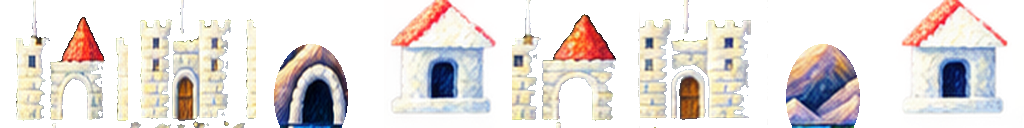
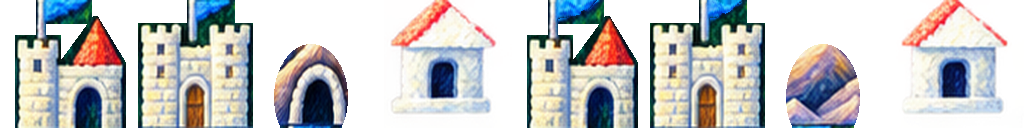
Fix Van Gogh building crops and restrict animation to flags

diff --git a/web/tests/expandedArt.test.ts b/web/tests/expandedArt.test.ts
@@ -1,10 +1,91 @@
 import { describe, expect, it } from 'vitest';
 import { createHash } from 'node:crypto';
 import { readFileSync } from 'node:fs';
+import { inflateSync } from 'node:zlib';
 import { TILE_SETS } from '../src/ui/help.ts';
 import { VEGETATION_LAYOUTS } from '../src/ui/vegetationLayouts.ts';
 
+/** Decode the shipped RGBA PNGs so animation invariants check actual pixels. */
+function rgba(file: string) {
+  const png = readFileSync(new URL(`../public/graphics/Van Gogh-${file}.png`, import.meta.url));
+  const width = png.readUInt32BE(16),
+    height = png.readUInt32BE(20),
+    chunks: Buffer[] = [];
+  expect([png[24], png[25]]).toEqual([8, 6]);
+  for (let offset = 8; offset < png.length; ) {
+    const length = png.readUInt32BE(offset);
+    if (png.toString('ascii', offset + 4, offset + 8) === 'IDAT') chunks.push(png.subarray(offset + 8, offset + 8 + length));
+    offset += length + 12;
+  }
+  const compressed = inflateSync(Buffer.concat(chunks)),
+    stride = width * 4,
+    pixels = Buffer.alloc(stride * height);
+  const paeth = (a: number, b: number, c: number) => {
+    const p = a + b - c,
+      da = Math.abs(p - a),
+      db = Math.abs(p - b),
+      dc = Math.abs(p - c);
+    return da <= db && da <= dc ? a : db <= dc ? b : c;
+  };
+  for (let y = 0; y < height; y++) {
+    const filter = compressed[y * (stride + 1)];
+    for (let x = 0; x < stride; x++) {
+      const i = y * stride + x,
+        a = x >= 4 ? pixels[i - 4] : 0,
+        b = y ? pixels[i - stride] : 0,
+        c = y && x >= 4 ? pixels[i - stride - 4] : 0;
+      const prediction = [0, a, b, Math.floor((a + b) / 2), paeth(a, b, c)][filter];
+      pixels[i] = (compressed[y * (stride + 1) + x + 1] + prediction) & 255;
+    }
+  }
+  return (x: number, y: number) => pixels.subarray((y * width + x) * 4, (y * width + x) * 4 + 4);
+}
+
 describe('opt-in Van Gogh art package', () => {
+  it('animates only flag cloth and retains blue doors, stone edges and the painted ground', () => {
+    const atlas = rgba('Tiles'),
+      cards = rgba('BuildingCards'),
+      grounds = rgba('BuildingGrounds');
+    for (const { index, slot, flag } of [
+      { index: 6, slot: 0, flag: [45, 0, 92, 24] },
+      { index: 7, slot: 1, flag: [66, 0, 107, 25] },
+    ]) {
+      let changed = 0,
+        background = 0;
+      for (let y = 0; y < 128; y++)
+        for (let x = 0; x < 128; x++) {
+          const a = atlas(x, index * 128 + y),
+            b = atlas(x + 128, index * 128 + y);
+          const inside = x >= flag[0] && x < flag[2] && y >= flag[1] && y < flag[3];
+          if (!a.equals(b)) {
+            expect(inside).toBe(true);
+            changed++;
+          }
+          expect(grounds(slot * 128 + x, y)).toEqual(grounds((slot + 4) * 128 + x, y));
+          for (const frame of [0, 1]) {
+            const original = atlas(x + frame * 128, index * 128 + y),
+              card = cards((slot + frame * 4) * 128 + x, y);
+            if (card[3] === 255) expect(card).toEqual(original);
+            else {
+              expect(grounds((slot + frame * 4) * 128 + x, y)).toEqual(original);
+              background++;
+            }
+          }
+        }
+      expect(changed).toBeGreaterThan(100);
+      expect(background).toBeGreaterThan(1000);
+    }
+    // Cool-coloured interiors and pale outer walls must never become holes.
+    for (const [slot, x, y] of [
+      [0, 38, 65],
+      [0, 90, 105],
+      [0, 18, 85],
+      [1, 23, 47],
+      [1, 85, 47],
+      [1, 12, 80],
+    ])
+      expect(cards(slot * 128 + x, y)[3]).toBe(255);
+  });
   it('ships a canonical atlas, paired building cutouts and independently anchored plants', () => {
     expect(TILE_SETS[0]).toBe('Standard');
     expect(TILE_SETS).toContain('Van Gogh');
@@ -14,6 +95,7 @@ describe('opt-in Van Gogh art package', () => {
     const dimensions: Record<string, number[]> = {
       Tiles: [1536, 2048],
       BuildingCards: [1024, 128],
+      BuildingGrounds: [1024, 128],
       VegetationCards: [1024, 128],
       ForestCard: [128, 128],
       TreeCards: [384, 128],
@@ -25,7 +107,7 @@ describe('opt-in Van Gogh art package', () => {
       const suffix = name.replace('Van Gogh-', '').replace('.png', '');
       expect([bytes.readUInt32BE(16), bytes.readUInt32BE(20)]).toEqual(dimensions[suffix]);
     }
-    expect(Object.keys(manifest.files)).toHaveLength(6);
+    expect(Object.keys(manifest.files)).toHaveLength(7);
     expect(VEGETATION_LAYOUTS['Van Gogh']).toEqual(VEGETATION_LAYOUTS.Standard);
   });
 

diff --git a/web/src/ui/screen.ts b/web/src/ui/screen.ts
@@ -38,7 +38,7 @@ import type { ScreenRect } from './tileMapScene.ts';
 import { buildLandscape } from '../game/landscape.ts';
 import { Shape } from '../game/tiles.ts';
 import { applyPresentationPreset, presentationPreset, DEFAULT_3D_SETTINGS, type View3DSettings } from './view3DSettings.ts';
-import { buildingGround, isBuilding } from './billboardArt.ts';
+import { drawBuildingGround, isBuilding } from './billboardArt.ts';
 import { World, holdCombatMark, STARVATION_MODES, TIMER_MODES } from '../game/world.ts';
 import { PlayerRecord, levelUpDue, statusLetter } from '../game/player.ts';
 import { commandMenu, hasMagic } from '../game/context.ts';
@@ -2385,14 +2385,10 @@ export class Screen implements GameIO {
       const dx = cell + (i % VIEW_SIZE) * tile;
       const dy = cell + Math.floor(i / VIEW_SIZE) * tile;
       gfx.drawShape(ctx, c.base, dx, dy, tile);
-      if (c.base !== Shape.Void)
-        gfx.drawShape(
-          map.terrainContext,
-          this.view3D.buildings && isBuilding(c.base) ? buildingGround(c.base) : map.forestGround(c.base, gfx),
-          dx,
-          dy,
-          tile,
-        );
+      if (c.base !== Shape.Void) {
+        if (this.view3D.buildings && isBuilding(c.base)) drawBuildingGround(map.terrainContext, gfx, c.base, dx, dy, tile);
+        else gfx.drawShape(map.terrainContext, map.forestGround(c.base, gfx), dx, dy, tile);
+      }
       this.drawViewportActors(ctx, c, dx, dy, tile);
       this.drawViewportActors(map.actorContext, c, dx, dy, tile, map.effectContext);
     }

diff --git a/web/tools/preview-presentations.html b/web/tools/preview-presentations.html
@@ -33,6 +33,7 @@
       import { TileMapScene } from '/src/ui/tileMapScene.ts';
       import { DEFAULT_3D_SETTINGS } from '/src/ui/view3DSettings.ts';
       import { Shape } from '/src/game/tiles.ts';
+      import { drawBuildingGround, isBuilding } from '/src/ui/billboardArt.ts';
       const canvas = document.querySelector('canvas');
       const renderer = new T.WebGLRenderer({ canvas, antialias: true, preserveDrawingBuffer: true });
       renderer.setSize(900, 900);
@@ -73,17 +74,15 @@
         cells.forEach((c, i) => {
           const x = 32 + (i % 11) * 64,
             y = 32 + Math.floor(i / 11) * 64;
-          gfx.drawShape(
-            map.terrainContext,
-            c.base === Shape.Forest || c.base === Shape.Brush
-              ? map.forestGround(c.base, gfx)
-              : [Shape.Town, Shape.Castle, Shape.Shrine].includes(c.base)
-                ? Shape.Grass
-                : c.base,
-            x,
-            y,
-            64,
-          );
+          if (isBuilding(c.base)) drawBuildingGround(map.terrainContext, gfx, c.base, x, y, 64);
+          else
+            gfx.drawShape(
+              map.terrainContext,
+              c.base === Shape.Forest || c.base === Shape.Brush ? map.forestGround(c.base, gfx) : c.base,
+              x,
+              y,
+              64,
+            );
         });
         const actors = [
           { id: 'fighter', shape: 136, x: step * 0.25 - 0.25, y: -0.25, worldX: 9 + step, worldY: 9, size: 0.65, ground: Shape.Grass },

diff --git a/web/src/ui/tileMapScene.ts b/web/src/ui/tileMapScene.ts
@@ -19,7 +19,7 @@ import { Shape } from '../game/tiles.ts';
 import type { ViewCell } from '../game/viewport.ts';
 import { battlefieldZoom, mapCameraTarget, minimumMapZoom } from './mapCameraBounds.ts';
 import { DEFAULT_3D_SETTINGS, useTreeCards, type View3DSettings } from './view3DSettings.ts';
-import { buildingGround, isBuilding } from './billboardArt.ts';
+import { drawBuildingGround, isBuilding } from './billboardArt.ts';
 import { BuildingBillboards, buildingSlide } from './buildingBillboards.ts';
 import { TerrainCubes } from './terrainCubes.ts';
 import { Shoreline } from './shoreline.ts';
@@ -350,7 +350,7 @@ export class TileMapScene {
       const x = (shape % 16) * 64;
       const y = Math.floor(shape / 16) * 64;
       if (this.forestGround(shape, gfx) !== shape) gfx.drawShape(ctx, Shape.Grass, x, y, 64);
-      else if (this.options.buildings && isBuilding(shape)) gfx.drawShape(ctx, buildingGround(shape), x, y, 64);
+      else if (this.options.buildings && isBuilding(shape)) drawBuildingGround(ctx, gfx, shape, x, y, 64);
       else if (shape === Shape.Shrine || shape === Shape.Door) {
         gfx.drawShape(ctx, shape === Shape.Door ? Shape.Floor : Shape.Grass, x, y, 64);
         gfx.drawShape(ctx, shape, x, y, 64, { masked: true });

diff --git a/web/src/ui/billboardArt.ts b/web/src/ui/billboardArt.ts
@@ -9,6 +9,24 @@ export function buildingGround(shape: number): number {
   return shape === Shape.Dungeon ? Shape.Mountains : Shape.Grass;
 }
 
+/** Keep an expanded set's painted surroundings in world space below its card. */
+export function drawBuildingGround(
+  ctx: CanvasRenderingContext2D,
+  gfx: GraphicsSet,
+  shape: number,
+  x: number,
+  y: number,
+  size: number,
+): void {
+  const slot = ([Shape.Town, Shape.Castle, Shape.Dungeon, Shape.Shrine] as number[]).indexOf(shape);
+  if (gfx.buildingGrounds && slot >= 0) {
+    const sourceSize = gfx.buildingGrounds.height;
+    const rect = gfx.tileRect(shape >> 1);
+    const frame = Math.floor(rect.x / rect.w) % 2;
+    ctx.drawImage(gfx.buildingGrounds, (slot + frame * 4) * sourceSize, 0, sourceSize, sourceSize, x, y, size, size);
+  } else gfx.drawShape(ctx, buildingGround(shape), x, y, size);
+}
+
 /** Remove only background connected to an image edge, keeping enclosed details intact. */
 export function cutoutBackground(pixels: Uint8ClampedArray, ground: Uint8ClampedArray, width: number, height: number): void {
   const rgba = (i: number): string => `${pixels[i * 4]},${pixels[i * 4 + 1]},${pixels[i * 4 + 2]}`;

diff --git a/web/src/ui/graphics.ts b/web/src/ui/graphics.ts
@@ -220,6 +220,8 @@ export class GraphicsSet {
     readonly vegetation: { image: HTMLImageElement; layout: VegetationLayout } | null = null,
     /** Optional expanded-art building cutouts: four subjects, then four alternate frames. */
     readonly buildingCards: HTMLImageElement | null = null,
+    /** Expanded-art surroundings preserved beneath the standing building. */
+    readonly buildingGrounds: HTMLImageElement | null = null,
   ) {
     this.tileSize = tiles.width / TILE_COLUMNS;
     this.opaqueTiles = document.createElement('canvas');
@@ -298,6 +300,7 @@ export class GraphicsSet {
       grassCards && GRASS_LAYOUTS[name] ? { image: grassCards, patches: GRASS_LAYOUTS[name] } : null,
       vegetationCards && VEGETATION_LAYOUTS[name] ? { image: vegetationCards, layout: VEGETATION_LAYOUTS[name] } : null,
       await tryLoad('BuildingCards', ['png'], false),
+      await tryLoad('BuildingGrounds', ['png'], false),
     );
   }
 

diff --git a/web/tools/prepare-van-gogh.py b/web/tools/prepare-van-gogh.py
@@ -7,6 +7,7 @@ alongside their prompts so this packing step is repeatable without a provider.
 from pathlib import Path
 import hashlib
 import json
+import math
 from PIL import Image, ImageDraw
 
 ROOT = Path(__file__).resolve().parents[1]
@@ -115,31 +116,74 @@ forest.save(OUT / 'Van Gogh-ForestCard.png')
 for index, plants in [(2,bushes),(3,forest)]:
     for frame in range(2):
         tile=get(1,frame); tile.alpha_composite(plants); put(index,frame,tile)
+
+# These generated rows have their own seams, unlike the rest of the draft.
+# Use ONE complete painting per subject. Only the flag cloth may animate.
+building_specs = {
+    6: {'crop': (0,477,88,550), 'flag': (45,0,92,24),
+        'outline': [(15,35),(36,35),(36,0),(45,0),(45,35),(60,35),(60,61),(93,16),(97,16),(125,62),(125,127),(15,127)]},
+    7: {'crop': (0,552,88,628), 'flag': (66,0,107,25),
+        'outline': [(10,23),(59,23),(59,0),(68,0),(68,23),(124,23),(124,127),(10,127)]},
+}
+building_masks = {}
+for index,spec in building_specs.items():
+    base=draft.crop(spec['crop']).resize((N,N),Image.Resampling.LANCZOS)
+    base.putalpha(255)
+    alternate=base.copy()
+    x0,y0,x1,y1=spec['flag']
+    def blue(pixel):
+        r,g,b,a=pixel
+        return b>100 and b>g*1.08 and b>r*1.4
+    # Move existing paint strokes within the blue cloth. Architecture, pole,
+    # silhouette and backdrop remain byte-identical; no second castle painting.
+    for y in range(y0,y1):
+        for x in range(x0,x1):
+            sy=max(y0,min(y1-1,y+round(3*math.sin((x-x0)*0.18+0.9))))
+            if blue(base.getpixel((x,y))) and blue(base.getpixel((x,sy))):
+                alternate.putpixel((x,y),base.getpixel((x,sy)))
+    put(index,0,base);put(index,1,alternate)
+    # Reviewed generous silhouettes, not colour removal: blue windows and cool
+    # stone edges belong to the building. The surrounding paint stays on ground.
+    mask=Image.new('L',(N,N)); painter=ImageDraw.Draw(mask)
+    painter.polygon(spec['outline'],fill=255)
+    painter.rectangle((x0,y0,x1-1,y1-1),fill=255)
+    building_masks[index]=mask
 atlas.save(OUT / 'Van Gogh-Tiles.png')
 
 # Buildings get explicit cutouts: the new painted grass is not pixel-identical
 # to the separate grass tile, so the historical background matcher cannot work.
 building_cards=Image.new('RGBA',(8*N,N))
+building_grounds=Image.new('RGBA',(8*N,N))
 for slot,index in enumerate([6,7,5,62]):
     for frame in range(2):
         tile=get(index,frame)
         if index in [6,7]:
-            # Flood only cold exterior ground. Enclosed blue doors are retained.
-            px=tile.load(); seen=set(); queue=[(x,y) for x in range(N) for y in [0,N-1]]+[(x,y) for y in range(N) for x in [0,N-1]]
-            for x,y in queue:
-                if (x,y) in seen: continue
-                seen.add((x,y)); r,g,b,a=px[x,y]
-                if a and not (g>r*1.05 or b>r*1.12): continue
-                px[x,y]=(0,0,0,0)
-                for nx,ny in [(x-1,y),(x+1,y),(x,y-1),(x,y+1)]:
-                    if 0<=nx<N and 0<=ny<N and (nx,ny) not in seen: queue.append((nx,ny))
+            mask=building_masks[index]
+            ground=tile.copy()
+            ground.paste(get(1,0),(0,0),mask)
+            tile.putalpha(mask)
         elif index==5:
             # Reviewed cave arch region, excluding the surrounding mountain.
             mask=Image.new('L',(N,N)); d=ImageDraw.Draw(mask)
             d.ellipse((18,44,91,150),fill=255)
             tile.putalpha(mask)
+            ground=get(4,0)
+        else:
+            ground=get(1,0)
         building_cards.alpha_composite(tile,((slot+frame*4)*N,0))
+        building_grounds.alpha_composite(ground,((slot+frame*4)*N,0))
 building_cards.save(OUT / 'Van Gogh-BuildingCards.png')
+building_grounds.save(OUT / 'Van Gogh-BuildingGrounds.png')
+
+# Side-by-side production review: flat frame A/B, then card A/B over backdrop.
+building_review=Image.new('RGBA',(4*256,2*280),'#777777')
+for row,index in enumerate([6,7]):
+    for frame in range(2):
+        building_review.alpha_composite(get(index,frame).resize((256,256)),(frame*256,row*280+24))
+        card=building_cards.crop(((row+frame*4)*N,0,(row+frame*4+1)*N,N))
+        building_review.alpha_composite(card.resize((256,256)),((2+frame)*256,row*280+24))
+ImageDraw.Draw(building_review).text((8,4),'Town / castle: flat A, flat B, card A, card B',fill='white')
+building_review.convert('RGB').save(DOC/'building-review.png')
 
 # Neutral background inspection sheet makes alpha holes visible in review.
 review=Image.new('RGBA',atlas.size,'#777777'); review.alpha_composite(atlas)
